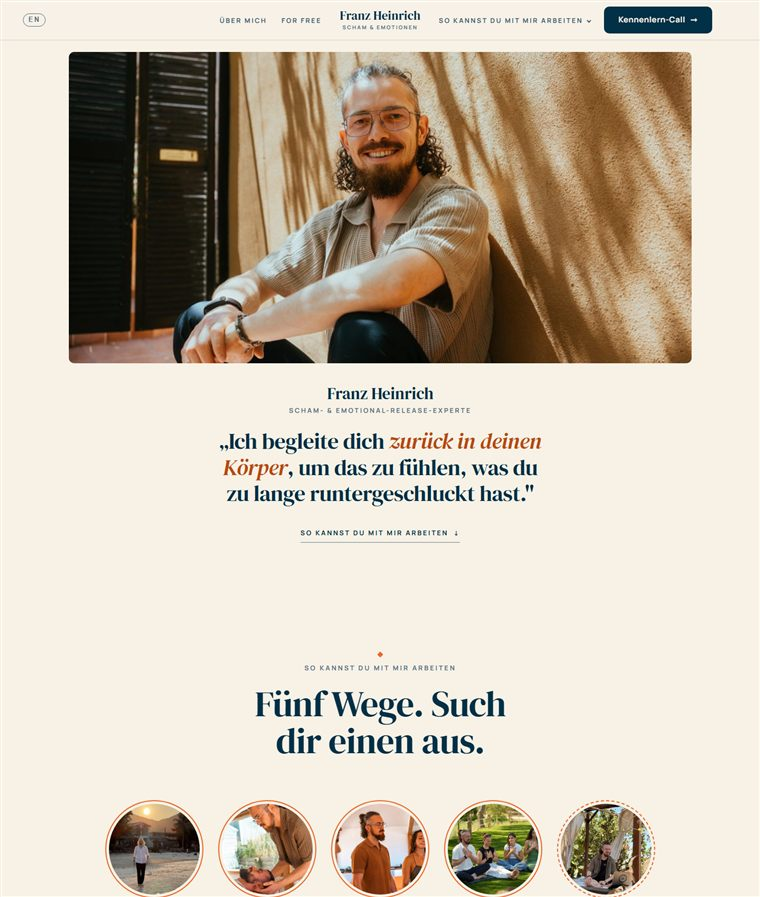
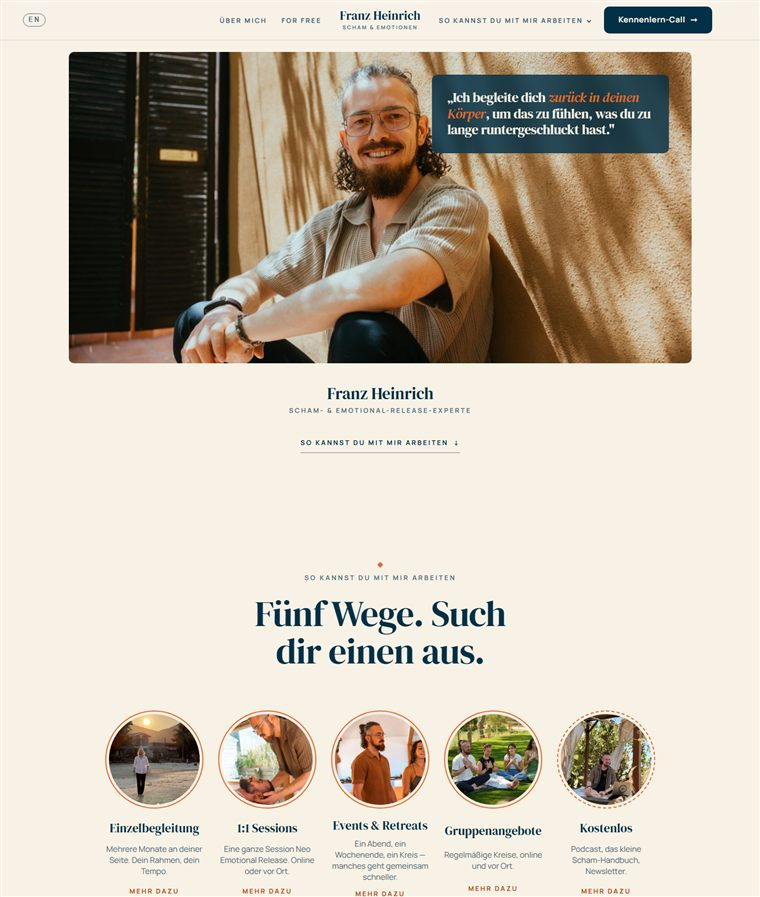
Kopf: Zitat als Navy-Tafel auf dem Bild (Desktop oben rechts auf der Wand, Handy unten), darunter Name + Titel

Changed region(s): [[0.1211, 0.5931, 0.8776, 1.0], [0.5447, 0.0624, 0.9079, 0.1873], [0.2724, 0.4682, 0.7263, 0.5619]]

diff --git a/vorschau.html b/vorschau.html
@@ -104,7 +104,8 @@
       die Sessions als Timeline, „Das ist drin" bei der Begleitung, Google ganz unten — und die Seite
       spricht jetzt auch Englisch.</p>
       <p class="lead mt-2"><strong>Neu seit dem 16. September:</strong> Das Video ganz oben ist vorerst raus. Stattdessen begrüßt
-        dein Foto vor der Sandwand, darunter dein Name, dein Titel und dein Zitat — und der Knopf zu den fünf Wegen.
+        dein Foto vor der Sandwand, dein Zitat liegt als Tafel auf dem Bild (neben dir, nie über deinem Gesicht),
+        darunter stehen dein Name und dein Titel — und der Link zu den fünf Wegen.
         Das Menü ist jetzt: EN · Über mich · For Free · Logo · So kannst du mit mir arbeiten · Kennenlern-Call.</p>
     <p class="mt-2"><a class="btn btn-orange btn-arrow" href="index.html">Deine Seite ansehen</a></p>
   </div>
@@ -127,7 +128,7 @@
           <tr><td>Logo: „nichts Besonderes, aber passt"</td><td class="ok">Bleibt. Wenn du irgendwann ein richtiges willst, sag Bescheid.</td></tr>
           <tr><td>Übersicht „So kannst du mit mir arbeiten": Begleitung, 1:1, Events &amp; Retreats, Gruppen, Free — als Rad oder Kreise mit Bild und Text</td><td class="ok"><em>Fünf Kreise</em> direkt unter dem Video: Bild, Titel, ein Satz, Link. „Kostenlos" ist gestrichelt umrandet, damit es sich abhebt. Das drehbare Rad haben wir bewusst nicht gebaut — am Handy sind Kreise klarer und schneller.</td></tr>
           <tr><td>Leiste oben: Über mich · Shop · Logo · So kannst du mit mir arbeiten (als Raster) · Kontakt — plus Icons für Instagram, Mail, Spotify</td><td class="ok">Seit dem 16. September in dieser Reihenfolge: <em>EN · Über mich · For Free · Logo · So kannst du mit mir arbeiten ▾ · Kennenlern-Call</em>. Das Raster klappt weiter auf (Begleitung, 1:1 Sessions, Events &amp; Retreats, Gruppenangebote, Kostenlos, jeweils mit Bild). „Kontakt" ist als Menüpunkt raus — der Call-Knopf führt dorthin. Die drei Icons stehen im Handy-Menü und beim Kontakt.</td></tr>
-          <tr><td>Kennenlern-Call oben rechts — aber nicht „so direkt in die Fresse"</td><td class="ok">Der Knopf sitzt oben rechts. Ganz oben steht jetzt dein Foto mit Name, Titel und Zitat, darunter nur der Knopf „So kannst du mit mir arbeiten". Der orange Call-Knopf kommt erst bei „Dein Weg", nach der Erklärung.</td></tr>
+          <tr><td>Kennenlern-Call oben rechts — aber nicht „so direkt in die Fresse"</td><td class="ok">Der Knopf sitzt oben rechts. Ganz oben steht jetzt dein Foto mit deinem Zitat als Tafel darauf, darunter Name und Titel und nur der kleine Link „So kannst du mit mir arbeiten". Der orange Call-Knopf kommt erst bei „Dein Weg", nach der Erklärung.</td></tr>
           <tr><td>„Dein Weg" — bist du unschlüssig</td><td class="offen">Bleibt drin, weiter unten. Schau es dir mit dem neuen Aufbau an — wenn es weg soll, ist es ein Handgriff.</td></tr>
           <tr><td>Alle-Links-Seite nur in Orange und Blau</td><td class="ok">Umgefärbt: Navy-Grund, orange Rahmen, die wichtigste Kachel orange.</td></tr>
           <tr><td>Sessions: deine Timeline statt der drei Schritte; Vor Ort / Online / Zeit / Preis; „Eine Session von innen" und das FAQ behalten; „für wen" raus</td><td class="offen">Timeline-Layout steht mit fünf Stationen als Platzhalter, darüber die Fakten-Leiste <em>Vor Ort · Online · Zeit · Preis</em>. FAQ bleibt, „für wen" ist raus. <strong>Achtung:</strong> Das PDF, das bei uns ankam, sind deine AGB — nicht die Timeline. Schick sie bitte noch einmal.</td></tr>
@@ -189,7 +190,7 @@
     <div class="head">
       <span class="eyebrow">Und am Handy?</span>
       <h2>Dort entscheidet sich der erste Eindruck.</h2>
-      <p class="lead">Die Seite ist zuerst fürs Handy gebaut: dein Foto, dein Name, dein Zitat, ein Knopf —
+      <p class="lead">Die Seite ist zuerst fürs Handy gebaut: dein Foto mit dem Zitat darauf, dein Name, dein Titel —
         und ein Fingertipp weiter die fünf Wege als Kreise.</p>
     </div>
     <div class="handys">
@@ -199,7 +200,7 @@
       </figure>
       <figure>
         <img src="assets/vorschau/neu-handy.jpg" width="390" height="844" loading="lazy" alt="Die neue Seite am Smartphone: Video-Bühne, Überschrift und Namenszeile vollständig sichtbar">
-        <figcaption><strong>Neu</strong> — dein Foto randlos, der Text darunter statt darüber, alles in einem Bildschirm.</figcaption>
+        <figcaption><strong>Neu</strong> — dein Foto randlos, das Zitat als Tafel am unteren Bildrand, dein Gesicht bleibt frei.</figcaption>
       </figure>
     </div>
   </div>

diff --git a/index.html b/index.html
@@ -140,13 +140,16 @@
            sizes="(max-width: 1180px) 94vw, 1180px" width="1200" height="600" fetchpriority="high"
            alt="Franz Heinrich sitzt lächelnd vor einer sonnenbeschienenen Wand">
     </picture>
+    <!-- Michael 16.09.: das Zitat liegt auf dem Bild — Navy-Tafel auf der freien Wand (Desktop oben rechts, Handy unten).
+         HIER: Franz' Zitat, Wortlaut von Michael -->
+    <div class="kopf-zitat in-up" style="--d:.35s">
+      <h1 data-t="hero.h1">„Ich begleite dich <em>zurück in deinen Körper</em>, um das zu fühlen,
+        was du zu lange runtergeschluckt hast."</h1>
+    </div>
   </figure>
   <div class="kopf-text">
     <p class="kopf-name in-up" style="--d:.15s">Franz Heinrich</p>
     <p class="kopf-rolle in-up" style="--d:.25s" data-t="hero.role">Scham- &amp; Emotional-Release-Experte</p>
-    <!-- HIER: Franz' Zitat — Wortlaut von Michael, 16.09. -->
-    <h1 class="in-up" style="--d:.4s" data-t="hero.h1">„Ich begleite dich <em>zurück in deinen Körper</em>, um das zu fühlen,
-      was du zu lange runtergeschluckt hast."</h1>
     <!-- Michael 16.09.: dezent und klein wie ursprünglich — Kapitälchen-Link statt Knopf -->
     <a class="tlink in-up" href="#arbeiten" style="--d:.55s"><b data-t="hero.cta">So kannst du mit mir arbeiten <span>↓</span></b></a>
   </div>

diff --git a/assets/site.css b/assets/site.css
@@ -819,3 +819,17 @@ body.links-navy h1,body.links-navy h2,body.links-navy h3{color:var(--cream)}
 .nav .wrap{width:min(1400px, 100% - clamp(28px,6vw,108px))}
 /* Michael 16.09.: im Desktop-Header kein FH-Zeichen — nur Name + Zeile. Am Handy bleibt es (Marke als Zeile). */
 @media (min-width:1181px){.masthead .brand .mark{display:none}}
+
+/* ---- 45 · Zitat auf dem Bild (Michael 16.09.) -----------------------------
+   Navy-Tafel mit Weichzeichner, nie über dem Gesicht: Desktop oben rechts auf
+   der freien Wand neben Franz, Handy unten am Bildrand. Darunter Name + Titel. */
+.kopf-bild{position:relative}
+.kopf-zitat{position:absolute;left:14px;right:14px;bottom:14px;padding:18px 20px;
+  background:rgba(2,48,71,.82);backdrop-filter:blur(10px);-webkit-backdrop-filter:blur(10px);
+  border-radius:var(--radius);color:var(--cream);text-align:left}
+.kopf-zitat h1{margin:0;max-width:none;font-size:clamp(20px,5.4vw,25px);line-height:1.22;color:var(--cream);text-align:left;text-wrap:pretty}
+.kopf-zitat h1 em{color:var(--orange)}
+@media (min-width:900px){
+  .kopf-zitat{left:auto;bottom:auto;right:clamp(20px,3vw,44px);top:clamp(20px,3vw,44px);width:min(38%,29rem);padding:clamp(20px,2vw,32px)}
+  .kopf-zitat h1{font-size:clamp(20px,1.2vw+12px,30px)}
+}
